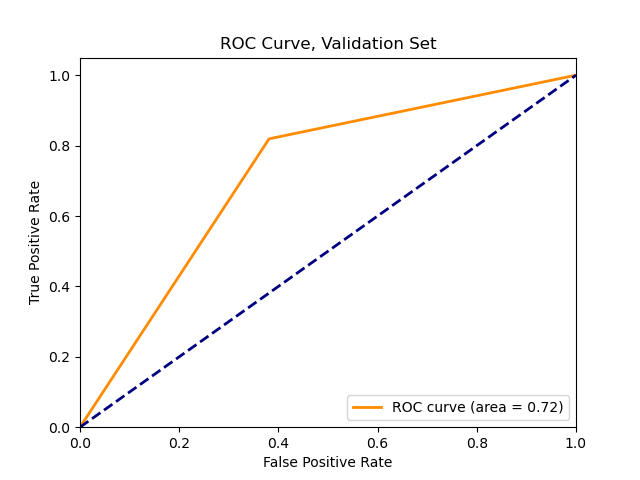
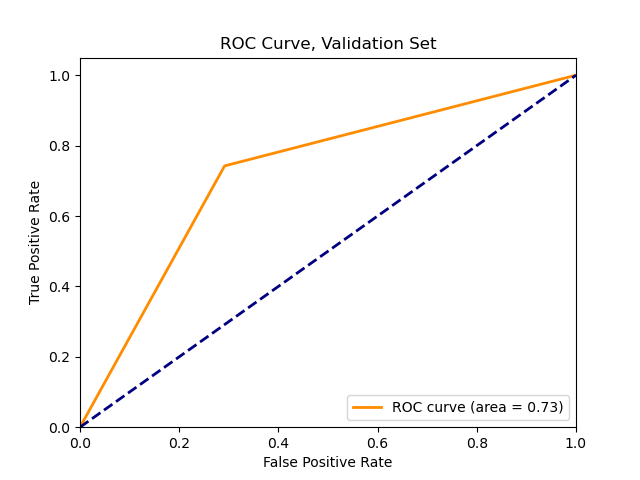
Added new metrics

Changed region(s): [[0.1875, 0.1562, 0.875, 0.75], [0.125, 0.75, 0.1875, 0.875], [0.8438, 0.8438, 0.875, 0.875]]

diff --git a/som_gnn.py b/som_gnn.py
@@ -4,8 +4,9 @@ import random
 import torch
 from torch_geometric.loader import DataLoader
 from sklearn.model_selection import train_test_split
-from sklearn.metrics import matthews_corrcoef, \
-    auc, roc_curve, ConfusionMatrixDisplay, PrecisionRecallDisplay
+from sklearn.metrics import matthews_corrcoef, accuracy_score, \
+    jaccard_score, precision_score, recall_score, auc, \
+    roc_curve, ConfusionMatrixDisplay, PrecisionRecallDisplay
 from sklearn.utils.class_weight import compute_class_weight
 from src.process_input_data import process_data
 from src.pyg_dataset_creator import SOM
@@ -67,11 +68,21 @@ def main():
     gin_model = GIN(in_dim=dataset.num_features, h_dim=128, out_dim=dataset.num_classes).to(device)
     print(gin_model)
 
-    for epoch in range(30):
+    for epoch in range(40):
         training_loss = train(gin_model, train_loader, class_weights, lr=1e-3, weight_decay=1e-4)
         val_pred, val_true = test(gin_model, val_loader)
         val_mcc = matthews_corrcoef(val_true, val_pred)
-        print(f'Epoch: {epoch}, Training Loss: {training_loss}, Validation MCC: {val_mcc}.')
+        val_acc = accuracy_score(val_true, val_pred)
+        val_jacc = jaccard_score(val_true, val_pred)
+        val_prec = precision_score(val_true, val_pred)
+        val_rec = recall_score(val_true, val_pred)
+        print(  f'Epoch: {epoch}, ' 
+                f'Training Loss: {training_loss:.2f}, '
+                f'Val MCC: {val_mcc:.2f}, '
+                f'Val Top-1-Accuracy : {val_acc:.2f}, '
+                f'Val Jaccard Score: {val_jacc:.2f}, '
+                f'Val Precision {val_prec:.2f}, '
+                f'Val Recall: {val_rec:.2f}.')
 
     # Compute and display ROC curve
     fpr, tpr, _ = roc_curve(val_true, val_pred)
